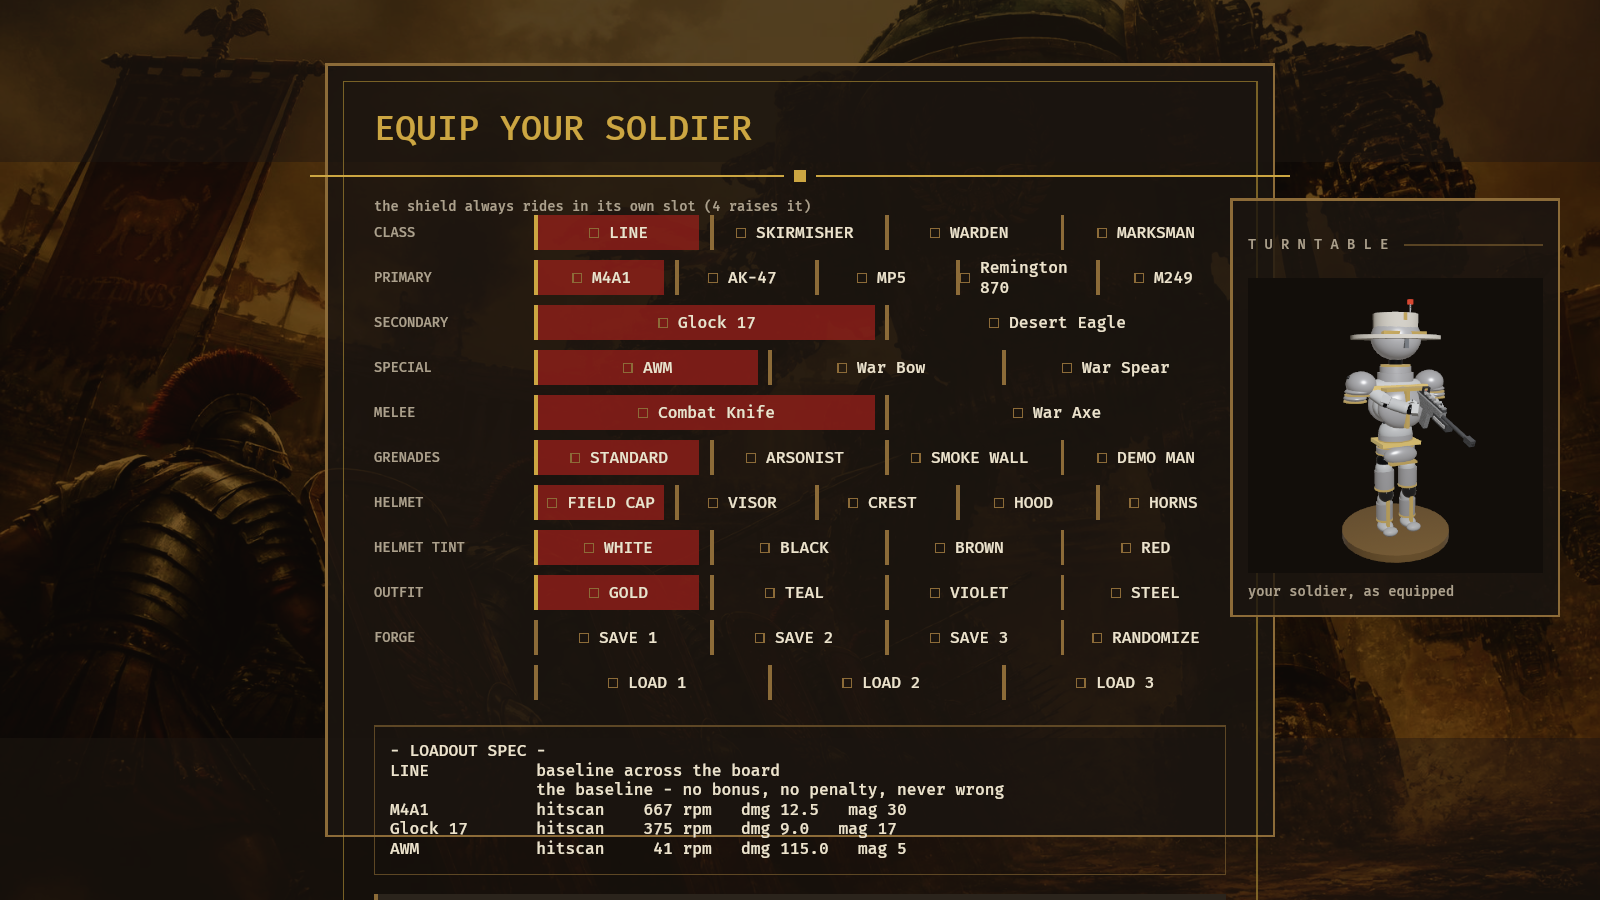
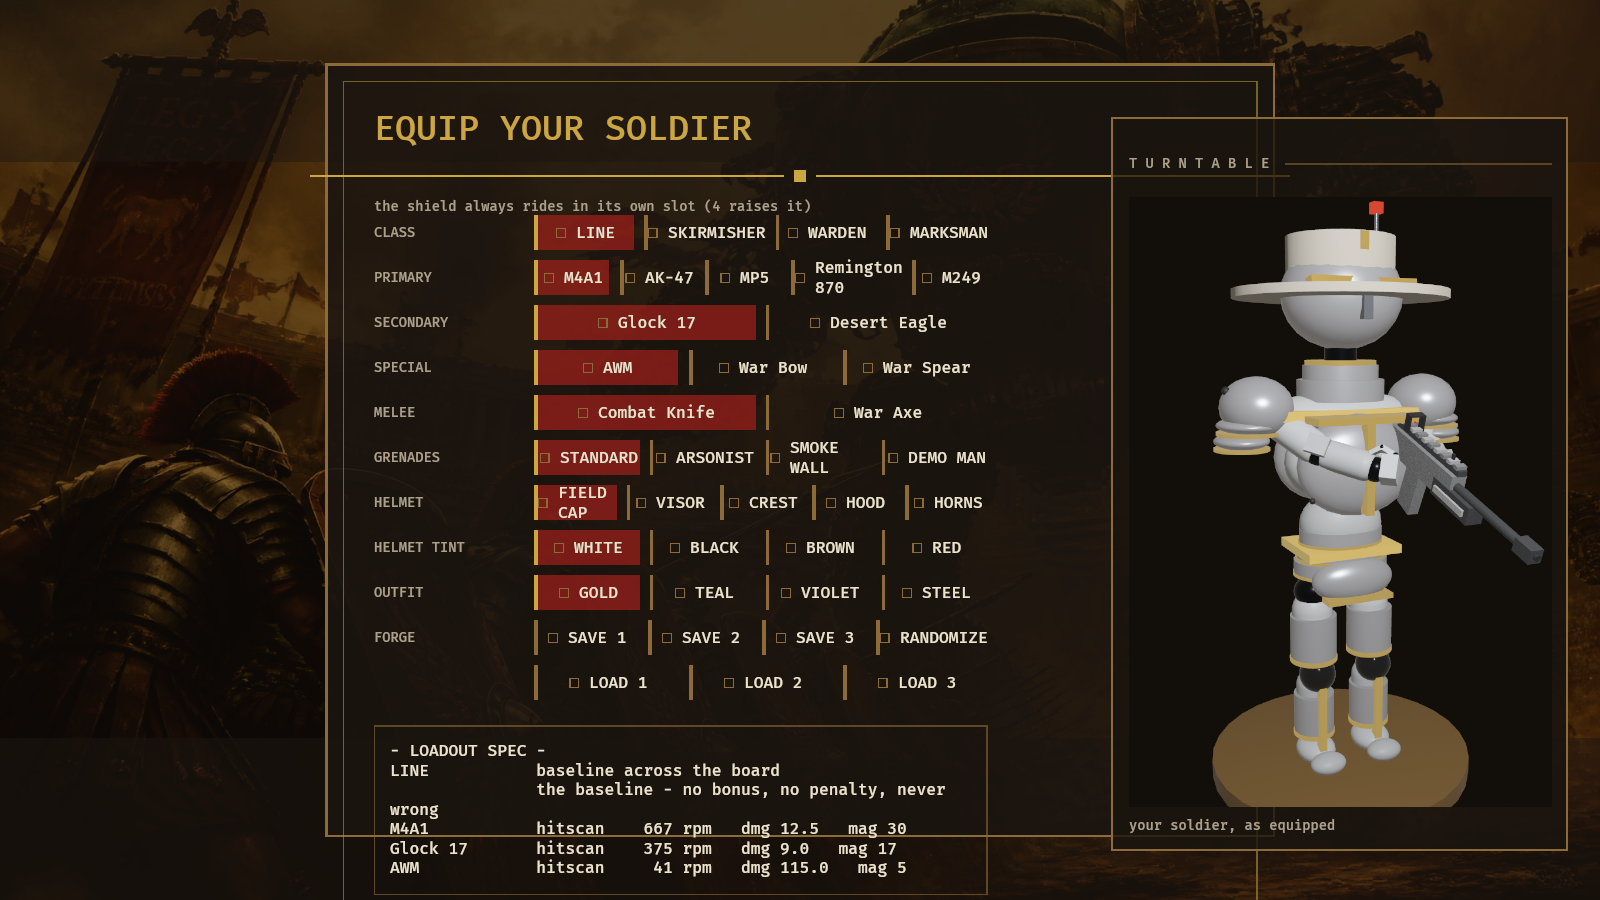
The customization preview stops being a thumbnail
§owner FRONT END P5: "large mech preview, clean, the machine is the
visual focus". It was a 264 px card holding a 236 px SQUARE on a
1280 px screen, with the figure filling about half of that - a
thumbnail beside the thing it was previewing.

Three changes, and the aspect one is free. Bevy's
`PerspectiveProjection.fov` is the VERTICAL angle, so making the
render target PORTRAIT (720x1040) crops the sides and leaves the
height framing exactly where it was. Then the camera comes in: at
45 deg vertical the visible height is 0.828*d, so the old 3.00 m
offset showed 2.49 m of world for a ~1.8 m figure and a third of
the frame was air. And the card grows to 366x520 for roughly 2.6x
the image area.

The rows moved OUT OF ITS WAY rather than under it. The SOLDIER
page ran full width and was only getting away with it because its
longest row happened to end before the old card began - which is a
coincidence, not a layout. It now obeys the same width limit the
armoury already did, and so does the BACK/NEXT nav, which was
sitting half-buried under the enlarged card.

TWO CAPTURE ITERATIONS, both of which the arithmetic missed:
- 62% row width wrapped the pill LABELS on GRENADES, HELMET and
  FORGE onto two lines and broke the loadout spec mid-number. 72%.
- 2.34 m clipped the AWM's barrel off the right edge on part of the
  turntable's rotation. 2.57 m holds the longest weapon in the
  arsenal all the way round.

STILL NOT RIGHT, stated rather than hidden: this previews the
[…]

diff --git a/engine/crates/jk_tdm/src/main.rs b/engine/crates/jk_tdm/src/main.rs
@@ -2710,7 +2710,35 @@ const COCKPIT_LAYER: usize = 2;
 /// the soldier page shows as a UI image. Layer isolation means the main
 /// camera never sees the stage and the stage camera never sees the world.
 const FORGE_PREVIEW_LAYER: usize = 6;
-const FORGE_PREVIEW_PX: u32 = 512;
+/// §owner FRONT END P5: the preview is PORTRAIT now, not square.
+///
+/// A standing figure in a square frame wastes half its pixels on air to
+/// either side, and the frame's aspect is the cheapest way to make a
+/// figure feel large without moving a camera. Bevy's
+/// `PerspectiveProjection.fov` is the VERTICAL angle, so narrowing the
+/// target crops the sides and leaves the height framing exactly where it
+/// was - a pure win, no re-framing needed for the aspect change alone.
+const FORGE_PREVIEW_W: u32 = 720;
+const FORGE_PREVIEW_H: u32 = 1040;
+/// Where the preview camera sits, as an offset from what it LOOKS AT.
+///
+/// Split out from the spawn call and stated as a distance because the
+/// framing is arithmetic, not taste: `fov` is 45 deg vertical, so the
+/// visible height at distance d is `2 * d * tan(22.5) = 0.828 * d`. The
+/// old offset measured 3.00 m, showing 2.49 m of world for a ~1.8 m
+/// figure - a third of the frame was air. 2.34 m shows 1.94 m, so the
+/// figure fills the frame with a hand's width of headroom.
+/// (1.10x the 2.34 m that arithmetic gave, after looking at it: at 2.34 m
+/// the AWM's barrel clipped the right edge of the frame on part of the
+/// turntable's rotation. 2.57 m shows 2.13 m of world and the longest
+/// weapon in the arsenal stays inside it all the way round.)
+const FORGE_CAM_OFFSET: Vec3 = Vec3::new(1.459, 0.532, 2.059);
+/// What it looks at: chest height on a standing man.
+const FORGE_CAM_AIM_Y: f32 = 1.00;
+/// The card the preview sits in, and the image inside it. Authored at
+/// 720p like everything else on these surfaces.
+const FORGE_CARD_W: f32 = 366.0;
+const FORGE_CARD_IMG_W: f32 = 338.0;
 /// The stage lives far under the map - irrelevant to rendering (layers
 /// isolate it) but keeps physics/audio/debug tooling from ever tripping
 /// over it.
@@ -7326,13 +7354,23 @@ struct ArmorPresetButton(sim::ArmorPreset);
 /// still answers to `zone()` for damage - and a test pins that every
 /// plate appears in exactly one row, so a piece cannot go missing from
 /// the UI while still counting toward weight.
-/// How much of the armoury plate the pill rows may use.
+/// How much of the setup plate the pill rows may use.
 ///
 /// The turntable card is absolutely positioned against the SCREEN, not
-/// the plate, and it overhangs the plate's right edge. Every other intro
-/// page gets away with full-width rows because none of them is long
-/// enough to reach under it; the armoury's six-pill rows are.
-const ARMOURY_ROW_W_PCT: f32 = 74.0;
+/// the plate, and it overhangs the plate's right edge, so anything wide
+/// enough to reach under it has to stop short.
+///
+/// §owner FRONT END P5 asks for a LARGE preview with the figure as the
+/// visual focus, so the card roughly doubled and this had to come down
+/// with it - and the SOLDIER page, which used to run full width, now
+/// obeys the same limit. It was only ever getting away with full width
+/// because its longest row happened to end before the old, much smaller
+/// card began; that is a coincidence, not a layout.
+// 62.0 was the first attempt and it was too tight: GRENADES, HELMET and
+// FORGE all wrapped their pill LABELS onto two lines, and the loadout
+// spec block broke mid-number. 72% clears the card's left edge by ~80 px
+// at 720p and leaves every row on one line.
+const ARMOURY_ROW_W_PCT: f32 = 72.0;
 
 const ARMOUR_ROWS: [(&str, &[sim::ArmorPiece]); 6] = {
     use sim::ArmorPiece::*;
@@ -14860,8 +14898,8 @@ fn setup(
             Extent3d, TextureDescriptor, TextureDimension, TextureFormat, TextureUsages,
         };
         let size = Extent3d {
-            width: FORGE_PREVIEW_PX,
-            height: FORGE_PREVIEW_PX,
+            width: FORGE_PREVIEW_W,
+            height: FORGE_PREVIEW_H,
             depth_or_array_layers: 1,
         };
         let mut target = Image {
@@ -14891,8 +14929,10 @@ fn setup(
                 clear_color: ClearColorConfig::Custom(Color::srgb(0.07, 0.055, 0.04)),
                 ..default()
             },
-            Transform::from_translation(FORGE_STAGE_POS + Vec3::new(1.7, 1.6, 2.4))
-                .looking_at(FORGE_STAGE_POS + Vec3::new(0.0, 0.98, 0.0), Vec3::Y),
+            Transform::from_translation(
+                FORGE_STAGE_POS + Vec3::new(0.0, FORGE_CAM_AIM_Y, 0.0) + FORGE_CAM_OFFSET,
+            )
+            .looking_at(FORGE_STAGE_POS + Vec3::new(0.0, FORGE_CAM_AIM_Y, 0.0), Vec3::Y),
             RenderLayers::layer(FORGE_PREVIEW_LAYER),
         ));
         commands.spawn((
@@ -19926,11 +19966,17 @@ fn attach_turntable_card(
     ] {
         commands.entity(root).with_children(|p| {
             p.spawn((
+                // §owner FRONT END P5: "large mech preview, clean, the
+                // machine is the visual focus". This card was 264 px wide
+                // holding a 236 px square, on a 1280 px screen - a thumb-
+                // nail beside the thing it was previewing. It is roughly
+                // 2.6x the image area now, portrait, and the pill rows
+                // moved out of its way rather than under it.
                 Node {
                     position_type: PositionType::Absolute,
-                    right: Val::Percent(2.5),
-                    top: Val::Percent(22.0),
-                    width: Val::Px(264.0),
+                    right: Val::Percent(2.0),
+                    top: Val::Percent(13.0),
+                    width: Val::Px(FORGE_CARD_W),
                     flex_direction: FlexDirection::Column,
                     border: UiRect::all(Val::Px(menu_ui::RULE_STAMP_PX)),
                     padding: UiRect::all(Val::Px(menu_ui::U3)),
@@ -19948,8 +19994,14 @@ fn attach_turntable_card(
                 menu_ui::eyebrow(card, "TURNTABLE");
                 card.spawn((
                     Node {
-                        width: Val::Px(236.0),
-                        height: Val::Px(236.0),
+                        width: Val::Px(FORGE_CARD_IMG_W),
+                        // Matches the render target's aspect exactly. A
+                        // portrait texture in a square node letterboxes
+                        // by STRETCHING in Bevy UI, which is the failure
+                        // `menu_ui::key_art_fit` documents at length.
+                        height: Val::Px(
+                            FORGE_CARD_IMG_W * FORGE_PREVIEW_H as f32 / FORGE_PREVIEW_W as f32,
+                        ),
                         border: UiRect::all(Val::Px(menu_ui::RULE_HAIR_PX)),
                         ..default()
                     },
@@ -23206,6 +23258,21 @@ fn open_intro(
 
             // ---- SOLDIER page ------------------------------------------
             let sold = OnIntroPage(IntroPage::SOLDIER);
+            // §owner FRONT END P5: the rows live in a COLUMN that stops
+            // short of the preview, exactly as the armoury's already do.
+            // They used to run the full width of the plate and pass under
+            // the card harmlessly - which only worked because the old
+            // card was small. Making the figure the visual focus makes
+            // that overlap real.
+            b.spawn((
+                Node {
+                    width: Val::Percent(ARMOURY_ROW_W_PCT),
+                    flex_direction: FlexDirection::Column,
+                    ..default()
+                },
+                sold,
+            ))
+            .with_children(|b| {
             // §owner: CLASS leads the page - it is the choice that
             // frames every one below it, and the only one that changes
             // how the soldier plays rather than what he carries.
@@ -23299,6 +23366,7 @@ fn open_intro(
                     TechReadout,
                 ));
             });
+            }); // end of the SOLDIER page's width-limited column
 
             // ---- ARMOURY page ------------------------------------------
             // §C tier 2: four rows, one per body region, in the order a
@@ -23425,7 +23493,11 @@ fn open_intro(
             // would make it stop matching and the BACK/NEXT hide logic
             // would die silently, with no error.
             b.spawn(Node {
-                width: Val::Percent(100.0),
+                // Same limit as the rows: the nav used to run the full
+                // width of the plate and pass under the preview card,
+                // which was survivable while the card was a thumbnail and
+                // is not now - NEXT sat half-buried under it.
+                width: Val::Percent(ARMOURY_ROW_W_PCT),
                 flex_direction: FlexDirection::Row,
                 column_gap: Val::Px(menu_ui::U3),
                 margin: UiRect::top(Val::Px(menu_ui::U4)),
